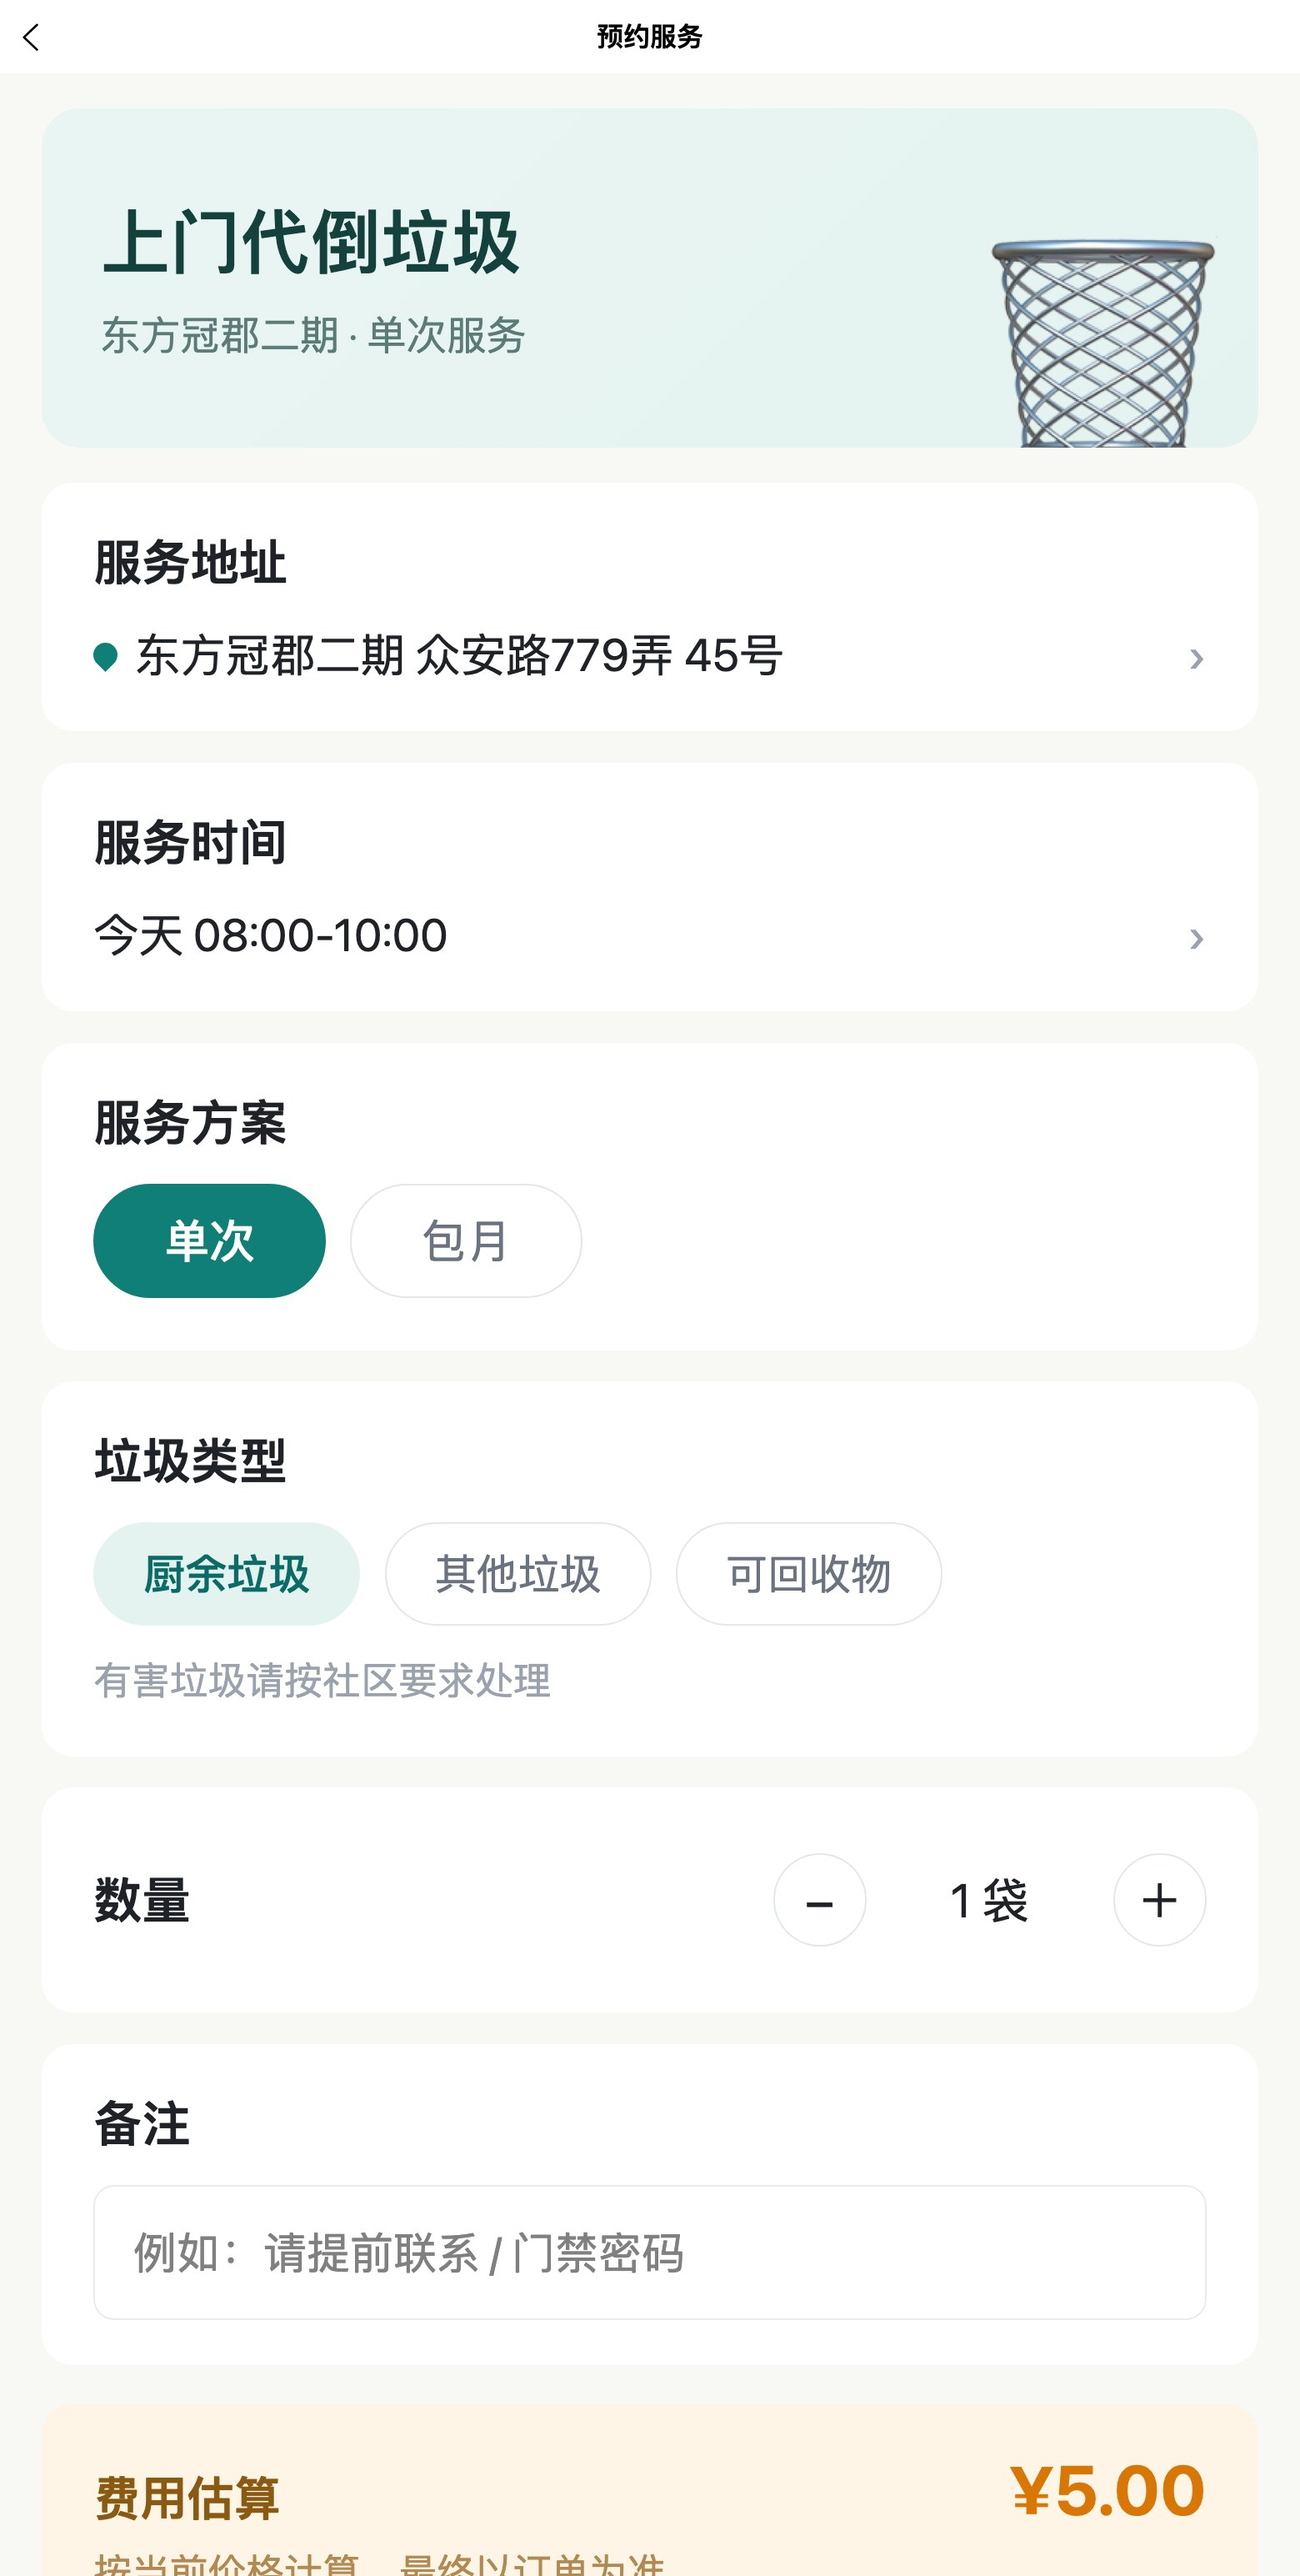
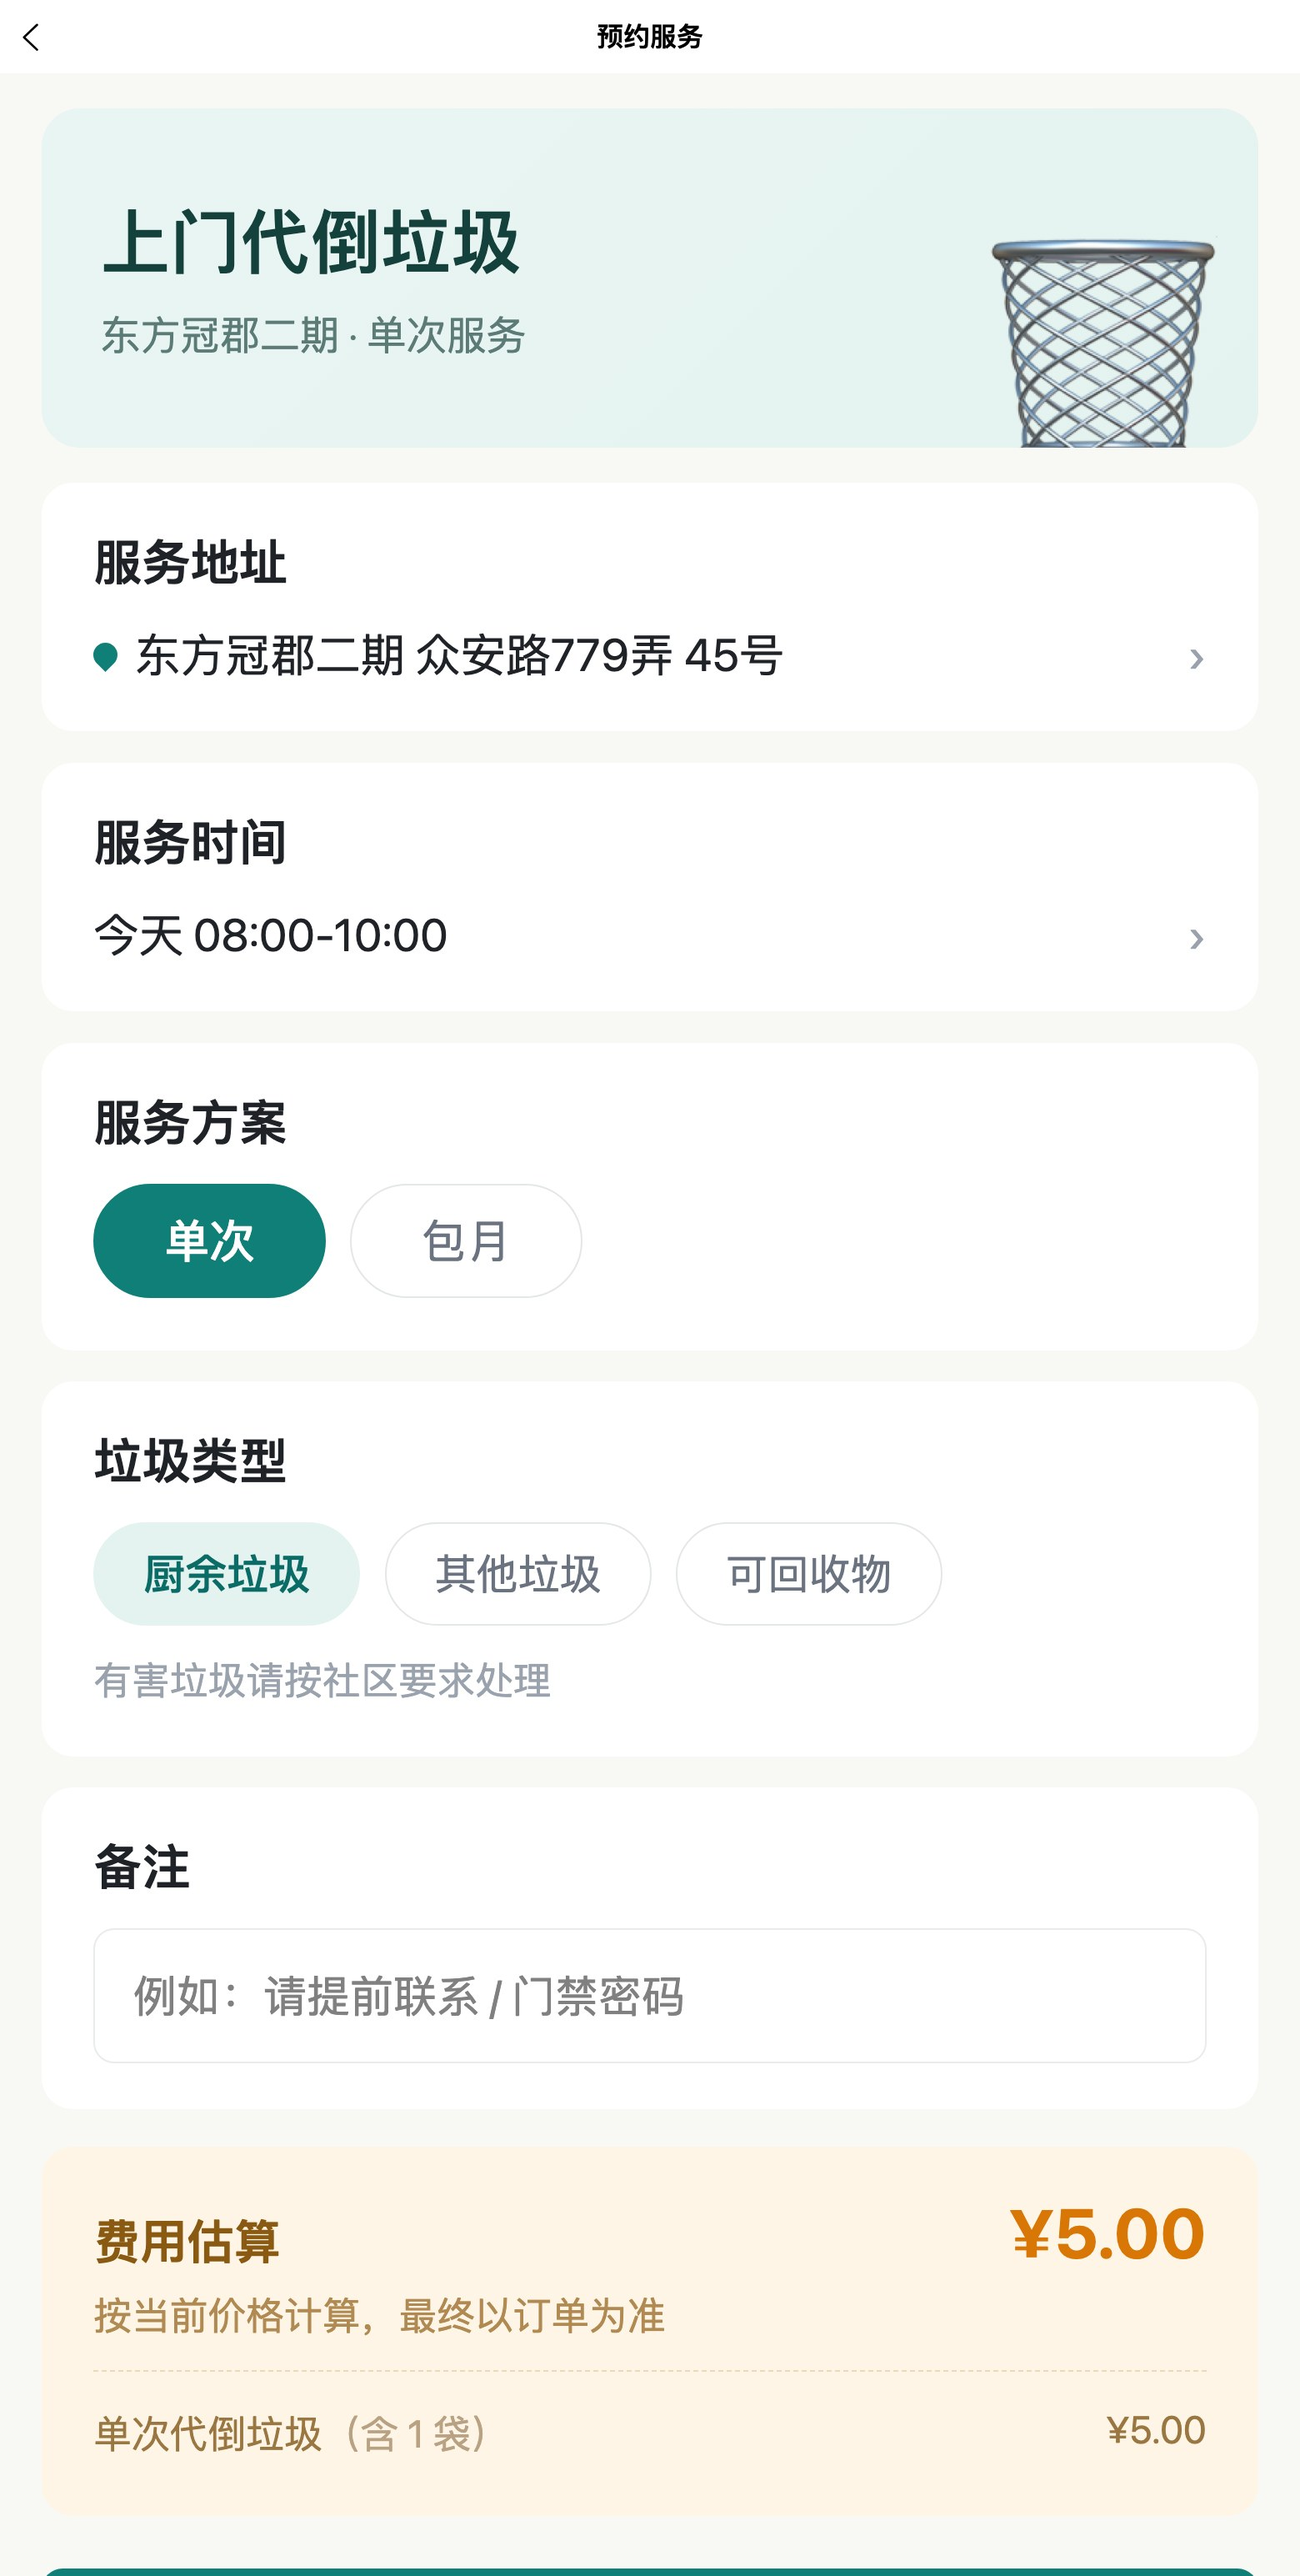
refactor(miniapp): 代倒垃圾去掉数量选择
- 预约页移除「数量」卡片及 form.quantity / unitText / 预览监听 / payload 组装；步进器样式保留给遛宠「宠物只数」
- 仅改前端：种子 SKU 规则 bags_included=1、extra_bag=0，多袋本就不加价；后端 defaultInt(req.Quantity,1) 与计价 qty<=0 兜底均已存在，不传即按含 1 袋的基础价 5 元结算
- API 层 quantity 可选字段保留，兼容后端契约与其他客户端
- 更新 02-预约表单.jpg；type-check 零错误，双端构建通过

diff --git a/miniapp/src/pages/order/create.vue b/miniapp/src/pages/order/create.vue
@@ -22,7 +22,6 @@ const form = reactive({
   serviceDate: dates[0].value,
   slotCode: '',
   plan: 'single',
-  quantity: 1,
   garbageType: 'kitchen',
   petCount: 1,
   durationMin: 20,
@@ -66,9 +65,6 @@ const timeText = computed(() => {
   return [d?.label, s?.label].filter(Boolean).join(' ')
 })
 
-/** 数量单位随服务类型变化，设计稿里是「1 袋」 */
-const unitText = computed(() => (form.serviceType === 'garbage' ? '袋' : '只'))
-
 onLoad(async (query) => {
   if (query?.type && ['garbage', 'dogwalk', 'accompany'].includes(query.type)) {
     form.serviceType = query.type as string
@@ -102,7 +98,6 @@ watch(
     form.serviceDate,
     form.slotCode,
     form.plan,
-    form.quantity,
     form.petCount,
     form.durationMin,
     form.feedOnly,
@@ -128,7 +123,6 @@ function buildPayload(): CreateOrderPayload | null {
 
   if (form.serviceType === 'garbage') {
     payload.plan = form.plan
-    payload.quantity = form.quantity
     payload.garbage_type = form.garbageType
   } else if (form.serviceType === 'dogwalk') {
     payload.pet_count = form.petCount
@@ -329,18 +323,6 @@ async function startPay(orderNo: string) {
         </view>
       </view>
       <view class="f-hint">有害垃圾请按社区要求处理</view>
-    </view>
-
-    <!-- 数量（仅垃圾） -->
-    <view v-if="form.serviceType === 'garbage'" class="card">
-      <view class="f-row">
-        <view class="f-label">数量</view>
-        <view class="stepper">
-          <view class="step-btn" @tap="form.quantity = Math.max(1, form.quantity - 1)">−</view>
-          <text class="step-val">{{ form.quantity }} {{ unitText }}</text>
-          <view class="step-btn" @tap="form.quantity = Math.min(20, form.quantity + 1)">＋</view>
-        </view>
-      </view>
     </view>
 
     <!-- 遛宠参数 -->
